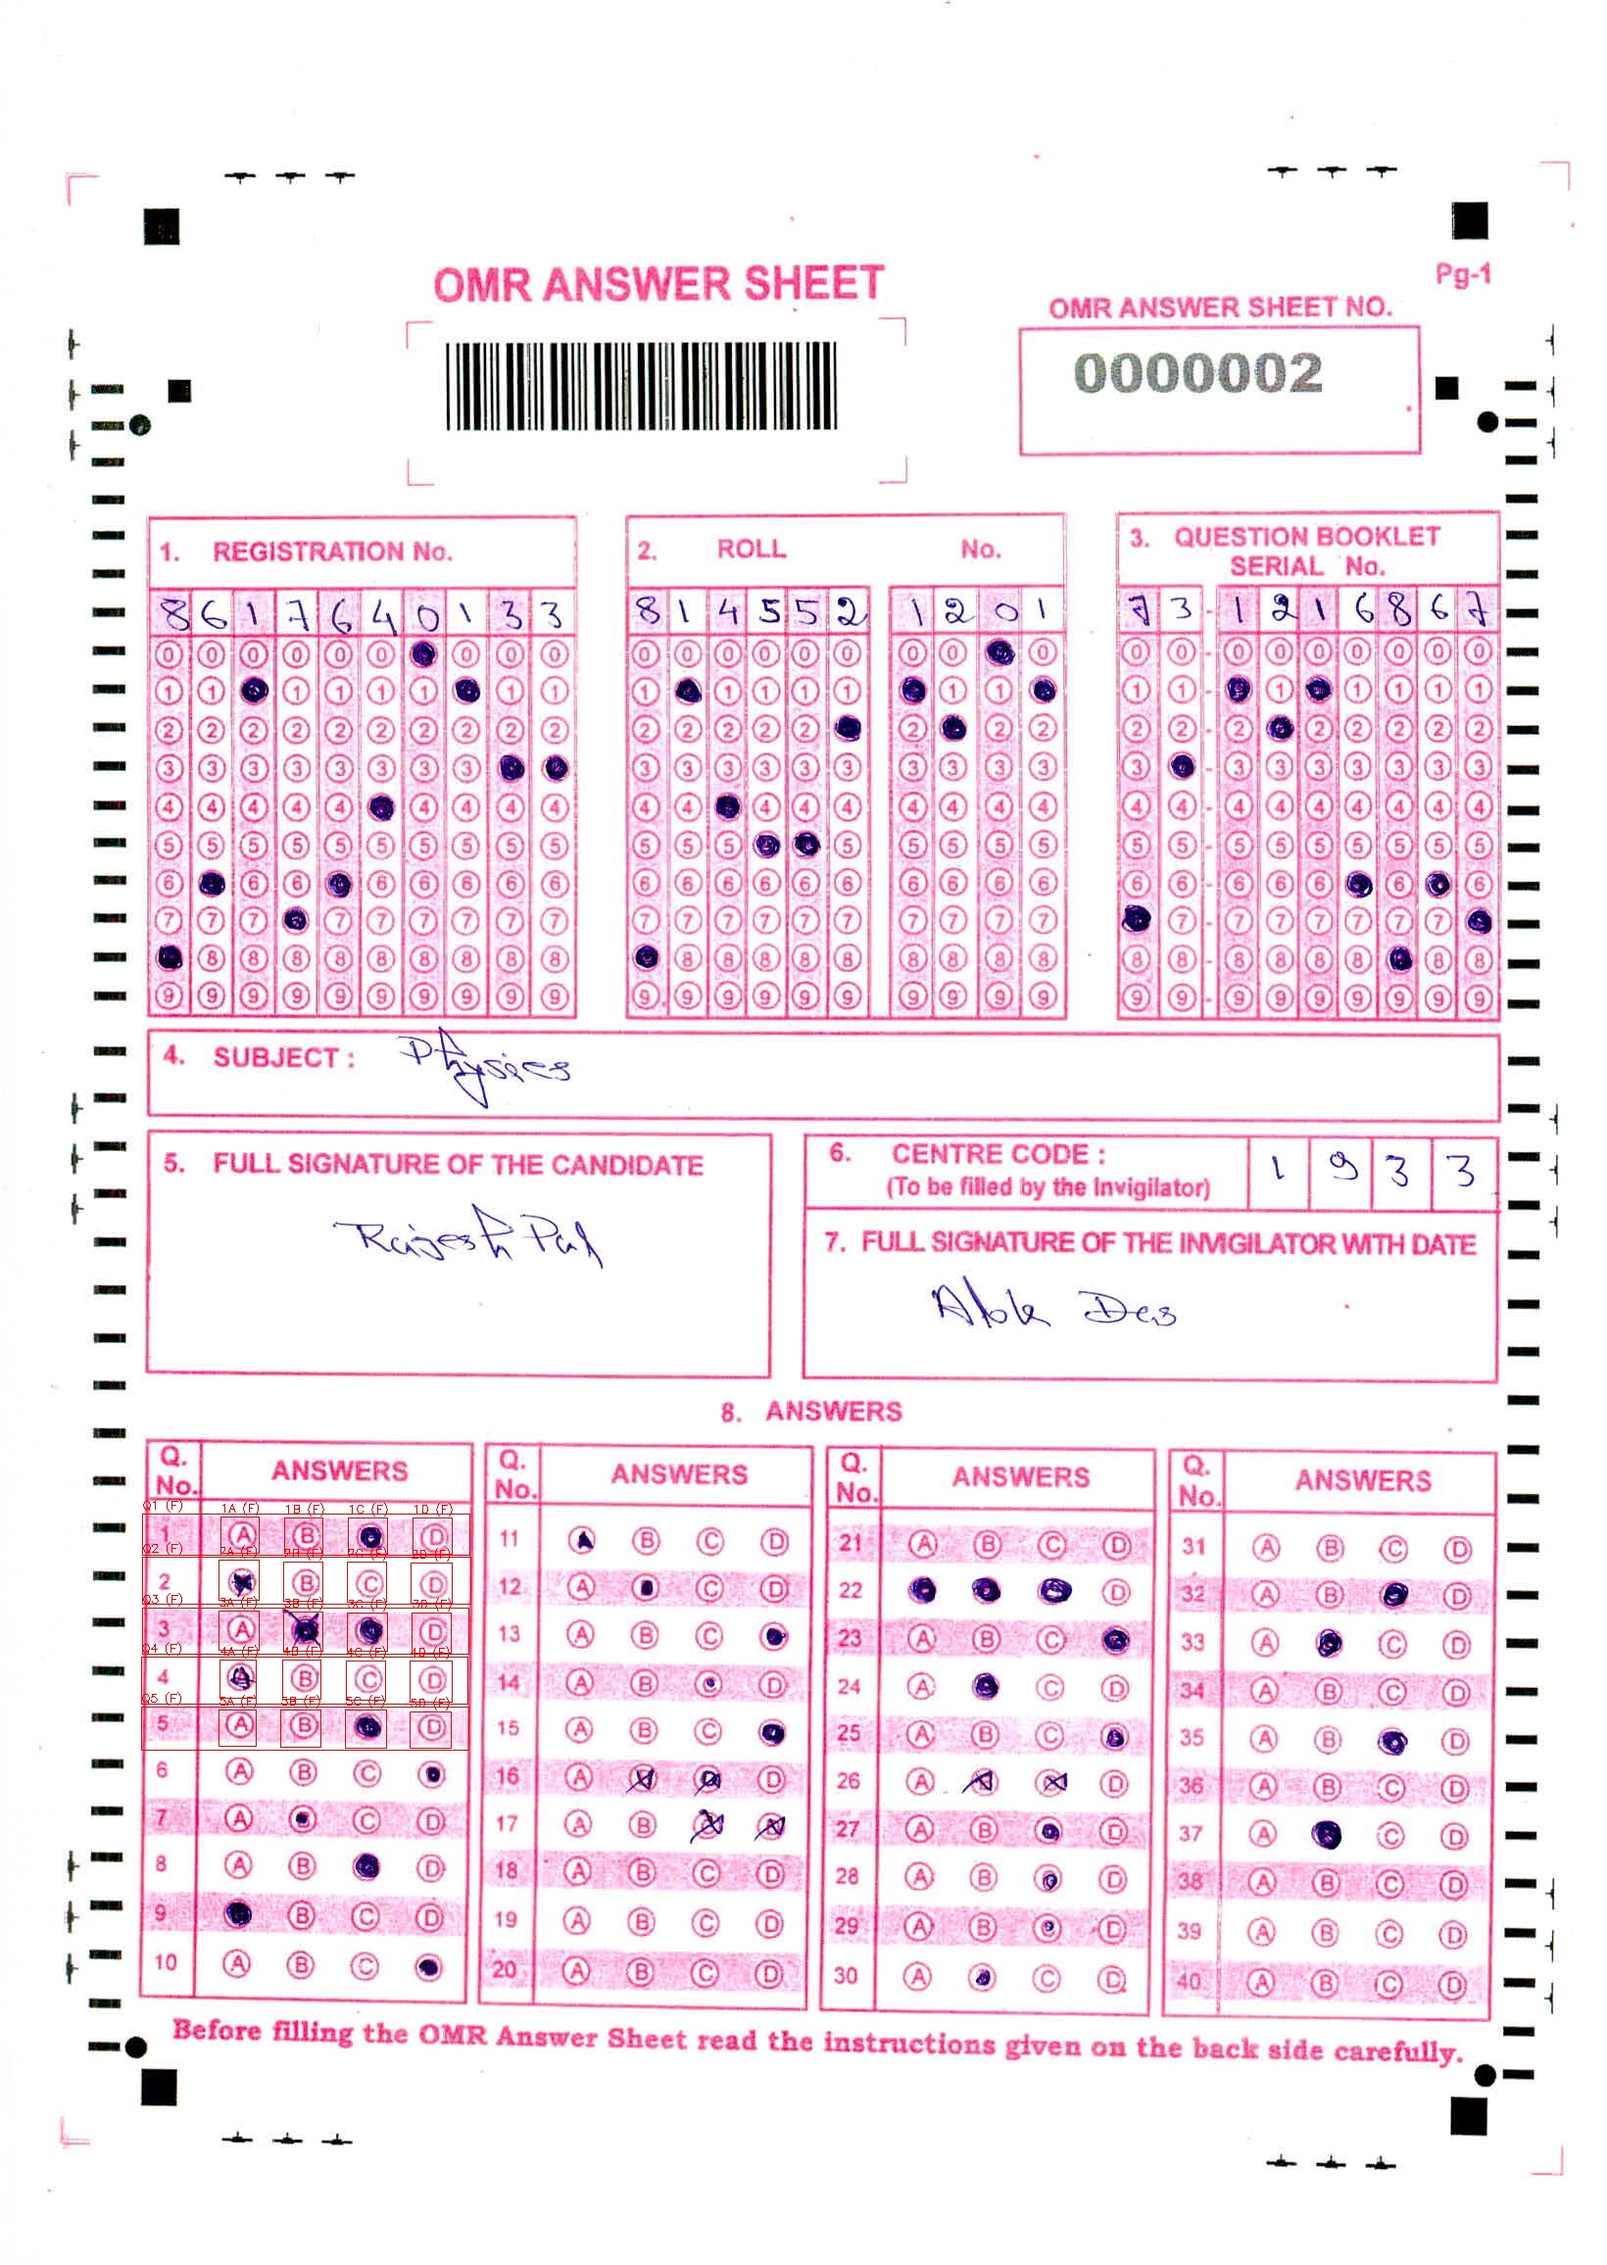
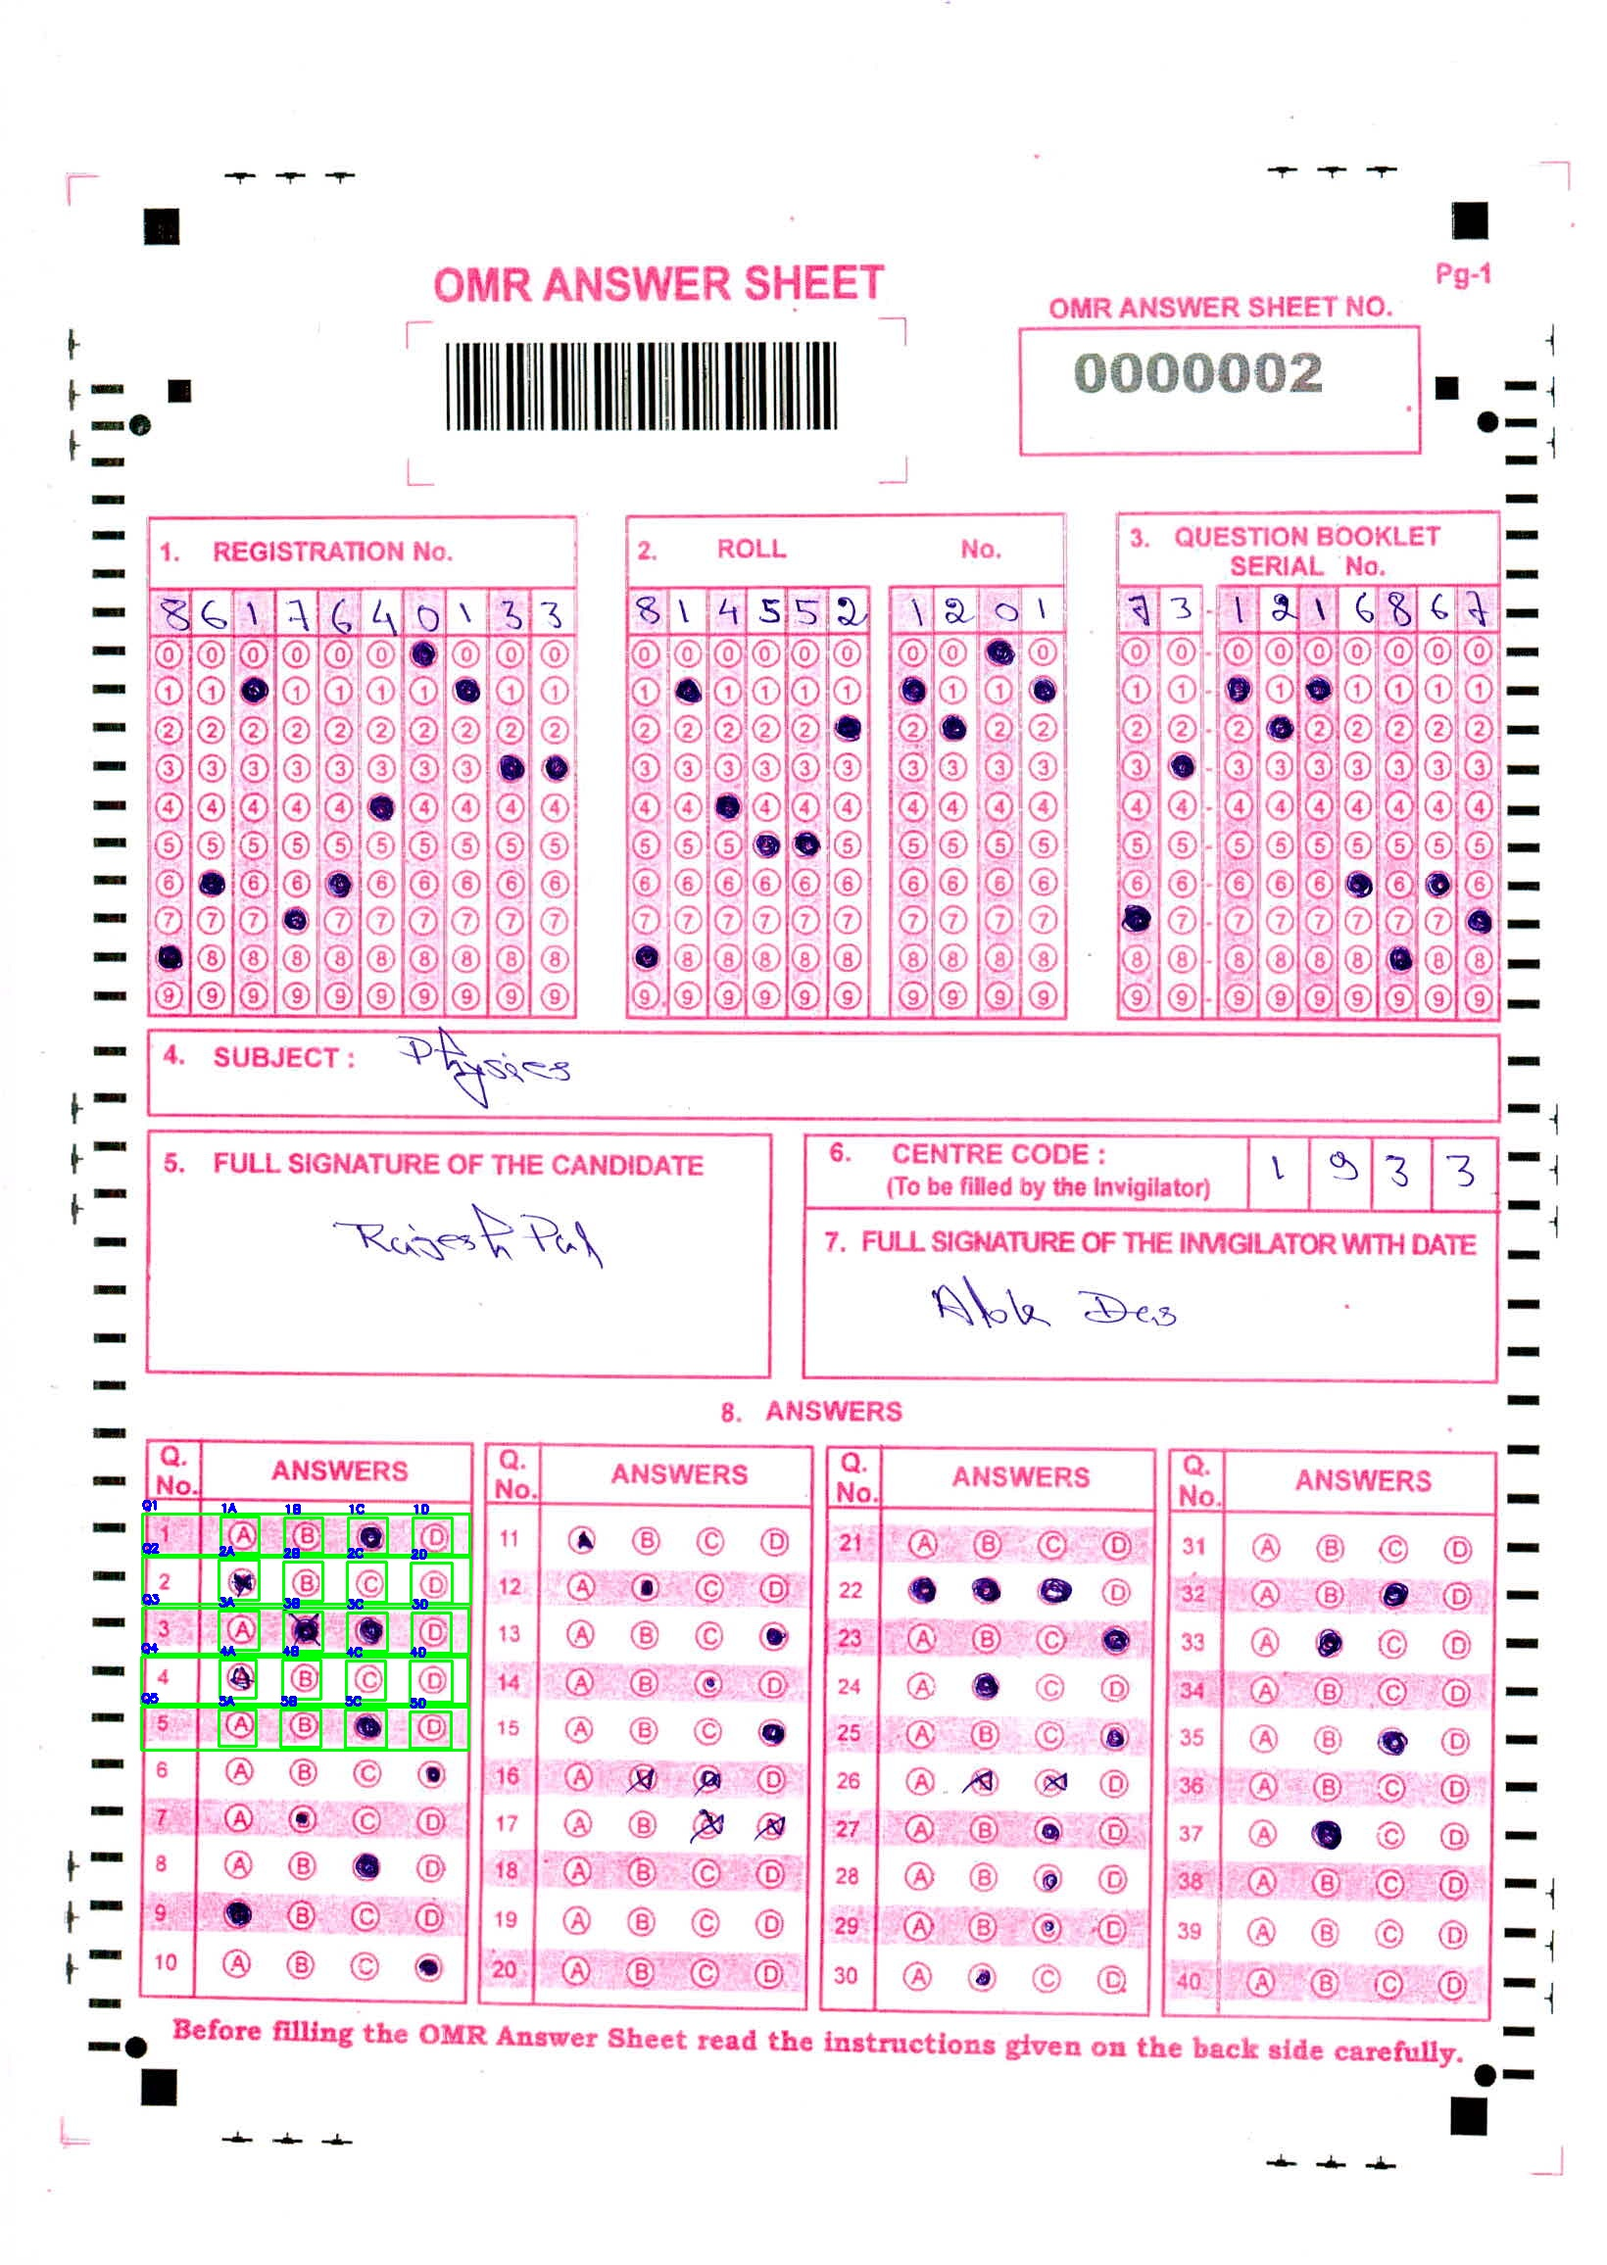
DEV: Evaluation for Threshold
Fixed the Issue of Failed Detecting Questions and Options (hence reverting to rectangular ROI. <br> Added the functionality to give e Percentage Score to view the difference between the next consequtive score (Change can be visualised in verification.csv

Changed region(s): [[0.0622, 0.654, 0.311, 0.7785]]

diff --git a/debugging/optionMapping.py b/debugging/optionMapping.py
@@ -1,3 +1,5 @@
+# ONLY CHANGE IN MAP AND DRAW FUNCTION, REST ALL ARE SAME
+
 import cv2
 import numpy as np
 import os
@@ -8,12 +10,12 @@ class OptionMapper:
         self.image_path = image_path
         self.annotations_path = annotations_path
         self.classes_path = classes_path
-        
         self.anchor_data = anchor_data
+
         self.original_image = cv2.imread(image_path)
         if self.original_image is None:
             raise FileNotFoundError(f"Image not found at {image_path}")
-            
+
         self.original_height, self.original_width = self.original_image.shape[:2]
         self.classes = self._load_classes()
         self.annotations = self._load_annotations()
@@ -50,17 +52,12 @@ class OptionMapper:
         return annotations
 
     def map_and_draw(self):
-        gray = cv2.cvtColor(self.image, cv2.COLOR_BGR2GRAY)
-        blurred = cv2.GaussianBlur(gray, (5, 5), 0)
-        thresh = cv2.adaptiveThreshold(blurred, 255, cv2.ADAPTIVE_THRESH_GAUSSIAN_C, 
-                                       cv2.THRESH_BINARY_INV, 11, 4)
-
         anchors = self.anchor_data.get("anchors", {})
         anch1_x, anch1_y = anchors.get("Anch1", (None, None))
 
         for class_name, norm_x_center, norm_y_center, norm_width, norm_height in self.annotations:
             if "Anch" in class_name:
-                continue
+                continue  # skip anchor points
 
             original_x_center = norm_x_center * self.original_width
             original_y_center = norm_y_center * self.original_height
@@ -81,100 +78,53 @@ class OptionMapper:
                 ]).reshape(-1, 1, 2)
 
                 if np.isnan(original_pts).any() or np.isinf(original_pts).any():
-                    print(f"Warning: NaN or Inf in original_pts for {class_name}. Skipping transformation.")
+                    print(f"⚠ Skipping {class_name}: invalid original points (NaN or Inf)")
                     continue
 
                 transformed_pts = cv2.perspectiveTransform(original_pts, self.M_transform).reshape(-1, 2)
 
                 if np.isnan(transformed_pts).any() or np.isinf(transformed_pts).any():
-                    print(f"Warning: NaN or Inf in transformed_pts for {class_name}. Skipping.")
+                    print(f"⚠ Skipping {class_name}: invalid transformed points (NaN or Inf)")
                     continue
 
-                transformed_x1 = int(np.min(transformed_pts[:, 0]))
-                transformed_y1 = int(np.min(transformed_pts[:, 1]))
-                transformed_x2 = int(np.max(transformed_pts[:, 0]))
-                transformed_y2 = int(np.max(transformed_pts[:, 1]))
+                transformed_x1 = np.min(transformed_pts[:, 0])
+                transformed_y1 = np.min(transformed_pts[:, 1])
+                transformed_x2 = np.max(transformed_pts[:, 0])
+                transformed_y2 = np.max(transformed_pts[:, 1])
 
-            search_bbox_x1, search_bbox_y1, search_bbox_x2, search_bbox_y2 = \
-                int(transformed_x1), int(transformed_y1), int(transformed_x2), int(transformed_y2)
-
-            buffer_scale = 1.5
-            buffer_x = max(int((search_bbox_x2 - search_bbox_x1) * buffer_scale / 2), 15)
-            buffer_y = max(int((search_bbox_y2 - search_bbox_y1) * buffer_scale / 2), 15)
-
-            search_x1 = max(0, search_bbox_x1 - buffer_x)
-            search_y1 = max(0, search_bbox_y1 - buffer_y)
-            search_x2 = min(self.deskewed_width, search_bbox_x2 + buffer_x)
-            search_y2 = min(self.deskewed_height, search_bbox_y2 + buffer_y)
-
-            if search_x2 <= search_x1 or search_y2 <= search_y1:
-                print(f"Warning: Invalid search area for {class_name} after transformation. Skipping.")
+            # ✅ Final safety check before drawing
+            if None in [transformed_x1, transformed_y1, transformed_x2, transformed_y2]:
+                print(f"⚠ Skipping {class_name}: some transformed coordinates are None")
                 continue
 
-            roi = thresh[search_y1:search_y2, search_x1:search_x2]
-            if roi.size == 0:
+            if np.isnan([transformed_x1, transformed_y1, transformed_x2, transformed_y2]).any():
+                print(f"⚠ Skipping {class_name}: NaN values in transformed coordinates")
                 continue
 
-            contours, _ = cv2.findContours(roi.copy(), cv2.RETR_EXTERNAL, cv2.CHAIN_APPROX_SIMPLE)
+            # ✅ Convert to int for drawing
+            x1 = int(transformed_x1)
+            y1 = int(transformed_y1)
+            x2 = int(transformed_x2)
+            y2 = int(transformed_y2)
 
-            found_bubble_bbox = None
-            max_contour_area = 0
+            # Save mapping info for downstream processing
+            center_x = (x1 + x2) // 2
+            center_y = (y1 + y2) // 2
+            delta_x = center_x - anch1_x if anch1_x is not None else None
+            delta_y = center_y - anch1_y if anch1_y is not None else None
 
-            expected_bubble_width = (transformed_x2 - transformed_x1)
-            expected_bubble_height = (transformed_y2 - transformed_y1)
-            min_area = 0.5 * (expected_bubble_width * expected_bubble_height)
-            max_area = 2.0 * (expected_bubble_width * expected_bubble_height)
-            min_aspect_ratio = 0.7
-            max_aspect_ratio = 1.3
+            self.mapped_annotations[class_name] = {
+                "bbox": [x1, y1, x2, y2],
+                "center": [center_x, center_y],
+                "delta_from_Anch1": [delta_x, delta_y]
+            }
 
-            for c in contours:
-                area = cv2.contourArea(c)
-                if area < min_area or area > max_area:
-                    continue
-
-                (cx_roi, cy_roi, cw_roi, ch_roi) = cv2.boundingRect(c)
-                aspect_ratio = cw_roi / float(ch_roi)
-
-                if not (min_aspect_ratio <= aspect_ratio <= max_aspect_ratio):
-                    continue
-
-                if area > max_contour_area:
-                    max_contour_area = area
-                    found_bubble_bbox = (search_x1 + cx_roi, search_y1 + cy_roi, 
-                                         search_x1 + cx_roi + cw_roi, search_y1 + cy_roi + ch_roi)
-
-            if found_bubble_bbox:
-                new_x1, new_y1, new_x2, new_y2 = map(int, found_bubble_bbox)
-                bubble_center_x = (new_x1 + new_x2) // 2
-                bubble_center_y = (new_y1 + new_y2) // 2
-                delta_x = bubble_center_x - anch1_x if anch1_x is not None else None
-                delta_y = bubble_center_y - anch1_y if anch1_y is not None else None
-
-                self.mapped_annotations[class_name] = {
-                    "bbox": [new_x1, new_y1, new_x2, new_y2],
-                    "center": [bubble_center_x, bubble_center_y],
-                    "delta_from_Anch1": [delta_x, delta_y]
-                }
-
-                cv2.rectangle(self.image, (new_x1, new_y1), (new_x2, new_y2), (0, 255, 0), 2)
-                cv2.putText(self.image, class_name, (new_x1, new_y1 - 5), cv2.FONT_HERSHEY_SIMPLEX, 0.4, (255, 0, 0), 2)
-            else:
-                fallback_x1, fallback_y1, fallback_x2, fallback_y2 = map(int, (transformed_x1, transformed_y1, transformed_x2, transformed_y2))
-                fallback_center_x = (fallback_x1 + fallback_x2) // 2
-                fallback_center_y = (fallback_y1 + fallback_y2) // 2
-                delta_x = fallback_center_x - anch1_x if anch1_x is not None else None
-                delta_y = fallback_center_y - anch1_y if anch1_y is not None else None
-
-                self.mapped_annotations[class_name] = {
-                    "bbox": [fallback_x1, fallback_y1, fallback_x2, fallback_y2],
-                    "center": [fallback_center_x, fallback_center_y],
-                    "delta_from_Anch1": [delta_x, delta_y]
-                }
-
-                cv2.rectangle(self.image, (fallback_x1, fallback_y1), (fallback_x2, fallback_y2), (0, 0, 255), 1)
-                cv2.putText(self.image, class_name + " (F)", (fallback_x1, fallback_y1 - 5), cv2.FONT_HERSHEY_SIMPLEX, 0.4, (0, 0, 255), 1)
+            # ✅ Draw bounding box and label
+            cv2.rectangle(self.image, (x1, y1), (x2, y2), (0, 255, 0), 2)
+            cv2.putText(self.image, class_name, (x1, y1 - 5), cv2.FONT_HERSHEY_SIMPLEX, 0.4, (255, 0, 0), 2)
 
         return self.image, self.mapped_annotations
+
 
 def process_folder(folder_path, annotations_file, classes_file, anchor_data_json_path):
     folder_name = os.path.basename(folder_path.rstrip("\\/"))

diff --git a/debugging/markedOption.py b/debugging/markedOption.py
@@ -125,6 +125,10 @@ def clean_and_export_summary(marked_options_path, summary_json_path, summary_csv
     print(f"📄 Summary CSV saved to: {summary_csv_path}")
 
 def export_verification_csv(option_score_map, flat_results_path, output_csv_path):
+    import csv
+    import re
+    from collections import defaultdict
+
     with open(flat_results_path, 'r') as f:
         flat_data = json.load(f)
 
@@ -148,6 +152,7 @@ def export_verification_csv(option_score_map, flat_results_path, output_csv_path
         qnum = q[1:]
         for opt in ["A", "B", "C", "D"]:
             all_columns.append(f"{qnum}{opt}")
+            all_columns.append(f"Result {qnum}{opt}")
 
     with open(output_csv_path, 'w', newline='') as f:
         writer = csv.writer(f)
@@ -155,17 +160,52 @@ def export_verification_csv(option_score_map, flat_results_path, output_csv_path
 
         for img_name in image_to_question_map.keys():
             row = [img_name]
-            for col in all_columns:
-                row.append(option_score_map.get(img_name, {}).get(col, ""))
+            scores = option_score_map.get(img_name, {})
+
+            for q in all_question_ids:
+                qnum = q[1:]
+                option_scores = {}
+                for opt in ["A", "B", "C", "D"]:
+                    key = f"{qnum}{opt}"
+                    option_scores[opt] = scores.get(key, "")
+
+                sorted_opts = sorted(
+                    [(opt, val) for opt, val in option_scores.items() if isinstance(val, (int, float))],
+                    key=lambda x: x[1]
+                )
+
+                for opt in ["A", "B", "C", "D"]:
+                    key = f"{qnum}{opt}"
+                    score = option_scores.get(opt, "")
+                    row.append(score)
+
+                    if not isinstance(score, (int, float)):
+                        row.append("")
+                        continue
+
+                    idx = next((i for i, (o, _) in enumerate(sorted_opts) if o == opt), -1)
+                    if idx == -1:
+                        row.append("")
+                        continue
+
+                    if idx + 1 < len(sorted_opts):
+                        next_opt, next_score = sorted_opts[idx + 1]
+                        percentage = round((score / next_score) * 100, 2) if next_score else 100.0
+                        row.append(f"{percentage} ({next_opt})")
+                    else:
+                        row.append(f"100.0 ({opt})")  # highest score, compared with itself
+
             writer.writerow(row)
 
     print(f"🧾 Verification CSV saved to: {output_csv_path}")
+
+
 
 if __name__ == "__main__":
     mapped_json_path = r"D:\Projects\OMR\new_abhigyan\debugging\annotate_Test_Series\mapped_annotations.json"
     image_folder = r"D:\Projects\OMR\new_abhigyan\debugging\TestData\Test_Series"
 
-    output_text_json_path = r"D:\Projects\OMR\new_abhigyan\debugging\TestData\Test_Series\marked_options.json"
+    output_text_json_path = r"D:\Projects\OMR\new_abhigyan\debugging\annotate_Test_Series\marked_options.json"
     summary_json_path = r"D:\Projects\OMR\new_abhigyan\debugging\TestData\Test_Series\summary.json"
     summary_csv_path = r"D:\Projects\OMR\new_abhigyan\debugging\TestData\Test_Series\summary.csv"
     verification_csv_path = r"D:\Projects\OMR\new_abhigyan\debugging\TestData\Test_Series\verification.csv"

diff --git a/debugging/anchorDetection.py b/debugging/anchorDetection.py
@@ -382,7 +382,6 @@ if __name__ == "__main__":
 
     # Define paths
     folder_path = r"D:\Projects\OMR\new_abhigyan\debugging\TestData\Test_Series"
-    # If the layout (and thus anchor positions) changes per image, you might need dynamic annotation loading.
     annotations_file = r"D:\Projects\OMR\new_abhigyan\debugging\Annotations\anchor_annotations\Test_Series\labels\BLANK001.txt"  
     classes_file = r"D:\Projects\OMR\new_abhigyan\debugging\Annotations\anchor_annotations\Test_Series\classes.txt"
 
